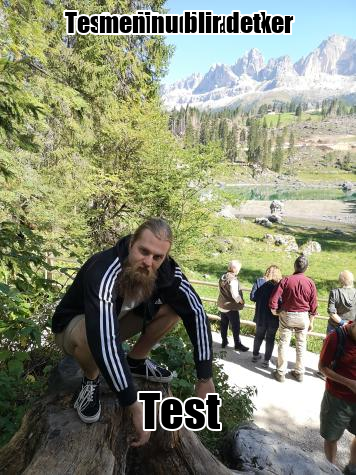
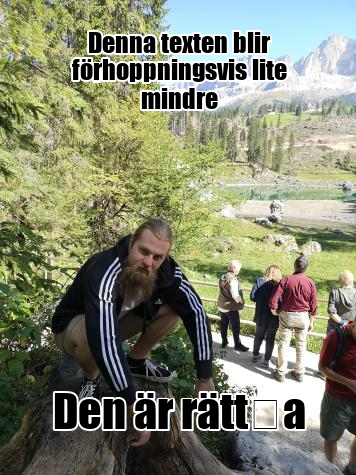
Tweaked caption positioning to work with x and y offsets

Changed region(s): [[0.1854, 0.0, 0.8343, 0.2358], [0.1236, 0.8253, 0.8652, 0.9137]]

diff --git a/templates/templates.html b/templates/templates.html
@@ -1,10 +1,12 @@
 <html>
 <body>
-{% for i in range(len(results)) %}
-    <td>
-        <img src="/static/{{ results[i] }}" height="50px" width="50px">
-        <figcaption>{{ i }}</figcaption>
-    </td>
+{% for meme in data['memes'] %}
+    <tr>
+        <td>
+            <img src="/static/{{ meme.url }}" height="50px" width="50px">
+            <figcaption>{{ meme.id }}</figcaption>
+        </td>
+    </tr>
 {% endfor %}
 </body>
 </html>

diff --git a/services/MemeGenerator.py b/services/MemeGenerator.py
@@ -16,6 +16,16 @@ class MemeGenerator:
     HeightFactor = 0.8
 
     def generate(self, url: str, boxes: List[TextBox], fontsize: int = 46):
+
+        """
+        Generates an image and returns its url.
+
+        :param url: Path of template used for generation.
+        :param boxes: Textboxes needed for Captioning.
+        :param fontsize: Specified fontsize. (Default=46)
+        :return:
+        """
+
         img = Image.open(url)
         font = ImageFont.truetype("impact.ttf", fontsize)
         draw = ImageDraw.Draw(img)
@@ -25,18 +35,21 @@ class MemeGenerator:
             wrap, adj_font = self.processBox(boxes[i], img, draw, font, fontsize)
 
             if i == 0:
+                line_offset = 0
                 for line in wrap:
                     width, height = adj_font.getsize(line)
                     anchor = self.setTextAnchor(boxes[i].x, boxes[i].y, 'upper', img, draw.textsize(line, adj_font)[0])
-                    draw.text((anchor[0], anchor[1]), line, "black", adj_font, stroke_width=2, stroke_fill="white")
-                    anchor[1] = anchor[1] + height
+                    draw.text((anchor[0], anchor[1] + line_offset), line, "black", adj_font, stroke_width=2,
+                              stroke_fill="white")
+                    line_offset = line_offset + height
             else:
+                line_offset = 0
                 for line in wrap:
                     width, height = font.getsize(line)
                     anchor = self.setTextAnchor(boxes[i].x, boxes[i].y, 'lower', img, draw.textsize(line, adj_font)[0])
-                    draw.text((anchor[0], anchor[1]), line, "black", adj_font, stroke_width=2,
+                    draw.text((anchor[0], anchor[1] + line_offset), line, "black", adj_font, stroke_width=2,
                               stroke_fill="white")
-                    anchor[1] = anchor[1] + height
+                    line_offset = line_offset + height
 
         img.save('memes/tmp.png')
         return 'memes/tmp.png'
@@ -72,18 +85,18 @@ class MemeGenerator:
         """
         Determines the correct Anchor Position of a box.
 
-        :param x_offset:
-        :param y_offset:
+        :param x_offset: Amount of pixels left/right  -/+
+        :param y_offset: Amount of pixels up/down  -/+
         :param boxposition: Upper/Lower
         :param img: Image
         :param textsize: Size of text.
         :return: [x,y] coordinates in pixels.
         """
         if boxposition == 'upper':
-            x = ((img.size[0] / 2) + x_offset) - ((textsize / 2)+x_offset)
+            x = ((img.size[0] / 2)) - ((textsize / 2)) + x_offset
             y = img.size[1] * 0.01 + y_offset
             return [x, y]
         else:
-            x = ((img.size[0] / 2) + x_offset) - ((textsize / 2)+x_offset)
+            x = ((img.size[0] / 2)) - ((textsize / 2)) + x_offset
             y = img.size[1] * self.HeightFactor + y_offset
             return [x, y]

diff --git a/app.py b/app.py
@@ -65,18 +65,15 @@ def hello_world():
 @app.route('/uploader', methods=['GET', 'POST'])
 def uploader():
     if request.method == 'POST':
-
         # template = MemeTemplate(request.form.get('name'), )
-
 
         f = request.files['file']
         f.save(os.path.join(app.config['UPLOAD_FOLDER'], secure_filename(f.filename)))
 
-
         # todo: createTemplate and add to db
 
-
-        return redirect(f"http://localhost:5000/homebrew?id={request.form.get('id')}&upper={request.form.get('upper')}&lower={request.form.get('lower')}")
+        return redirect(
+            f"http://localhost:5000/homebrew?id={request.form.get('id')}&upper={request.form.get('upper')}&lower={request.form.get('lower')}")
 
 
 @app.route('/templates', methods=['GET'])
@@ -85,7 +82,8 @@ def templates():
     for (dirpath, dirnames, filenames) in os.walk('static'):
         f.extend(filenames)
 
-    return render_template('templates.html', results=f)
+    return render_template('templates.html', results=MemeService.Data)
+
 
 @app.route('/upload', methods=['GET'])
 def upload_file():
@@ -100,13 +98,22 @@ def generateMeme():
     try:
         # Create Request
         memereq = MemeRequest(request.args.get('id'), request.args.get('upper'))
+        x1_offset = 0
+        y1_offset = 0
 
-        upper = TextBox(request.args.get('upper'), 0, 0)
-        memereq.addBox(upper)
+        #  Check passed arguments
+        if request.args.get('x') is not None:
+            x1_offset = int(request.args.get('x'))
+
+        if request.args.get('y') is not None:
+            y1_offset = int(request.args.get('y'))
 
         if request.args.get('lower') is not None:
             lower = TextBox(request.args.get('lower'), 0, 0)
             memereq.addBox(lower)
+
+        upper = TextBox(request.args.get('upper'), x1_offset, y1_offset)
+        memereq.addBox(upper)
 
         # Process meme if valid
         if memereq.isValidRequest():

diff --git a/services/MemeService.py b/services/MemeService.py
@@ -8,10 +8,16 @@ from services.MemeGenerator import MemeGenerator
 
 
 class MemeService:
-    # list of stored templates
-    StoredMemesUrl = 'templates/db.json'
+    """
+    Handles processing of MemeRequests.
+    Also handles Saving and Loading of Meme Templates.
 
-    data = {'memes': []}
+    """
+
+    # List of stored templates
+    StoredMemesUrl = 'templates/db.json'
+    # Loaded memes
+    Data = {'memes': []}
 
     def __init__(self):
         self.load()
@@ -24,7 +30,7 @@ class MemeService:
             print(box)
 
         try:
-            url = MemeGenerator().generate(f'templates/{memereq.id}.jpg', memereq.boxes, 46)
+            url = MemeGenerator().generate(f'templates/{memereq.id}.jpg', memereq.boxes)
         except InterruptedError:
             return 'Your text was too long. Max length=69 characters'
 
@@ -32,22 +38,22 @@ class MemeService:
 
     def uploadTemplate(self, template: MemeTemplate):
 
-        # check if file exist
-        # fetch new id number
-
+        # todo: check if file exist
+        # todo: fetch new id number
         pass
 
-    def save(self, object):
+    @staticmethod
+    def save(obj):
         with open('templates/db.json', 'w') as outfile:
-            json.dump(object, outfile, indent=4, sort_keys=True)
+            json.dump(obj, outfile, indent=4, sort_keys=True)
 
     def load(self):
         with open(self.StoredMemesUrl) as json_file:
-            self.data = json.load(json_file)
-            print(self.data)
+            self.Data = json.load(json_file)
+            print(self.Data)
 
     def validate(self, memerequest: MemeRequest):
-        for template in self.data['memes']:
+        for template in self.Data['memes']:
             if template['id'] == str(memerequest.id):
                 return True
         return False

diff --git a/models/MemeRequest.py b/models/MemeRequest.py
@@ -3,7 +3,6 @@ from models.TextBox import TextBox
 
 
 class MemeRequest:
-
     """
     Represents a request which is used in Processing.
 
@@ -11,10 +10,12 @@ class MemeRequest:
 
     """
 
-    def __init__(self, id: int, text):
+    def __init__(self, id: int, text, x_offset=0, y_offset=0):
         self.text = text
         self.id = id
         self.boxes = []
+        self.x_offset = x_offset
+        self.y_offset = y_offset
         if id is None or text is None:
             raise NotImplementedError
 

diff --git a/models/MemeTemplate.py b/models/MemeTemplate.py
@@ -1,5 +1,4 @@
 class MemeTemplate:
-
     DefaultCoordinate = 10
 
     """
@@ -33,6 +32,3 @@ class MemeTemplate:
 
     def setUrl(self, url):
         self.url = url
-
-
-
